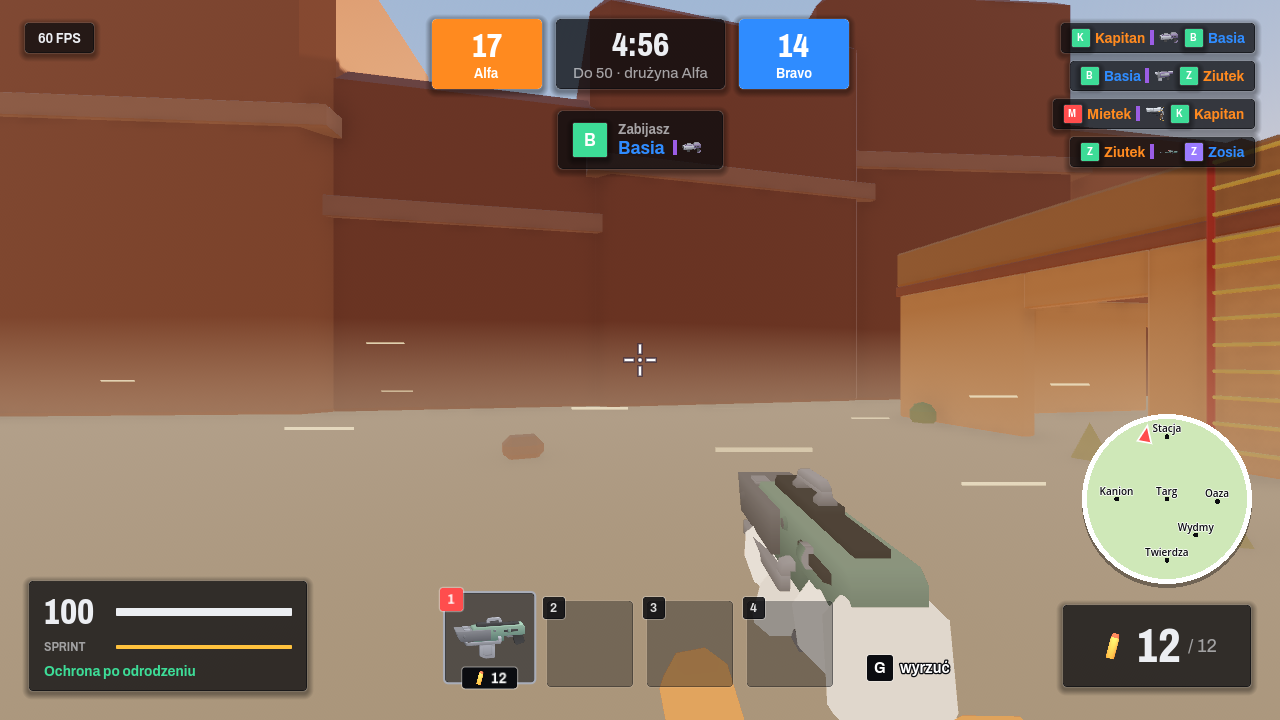
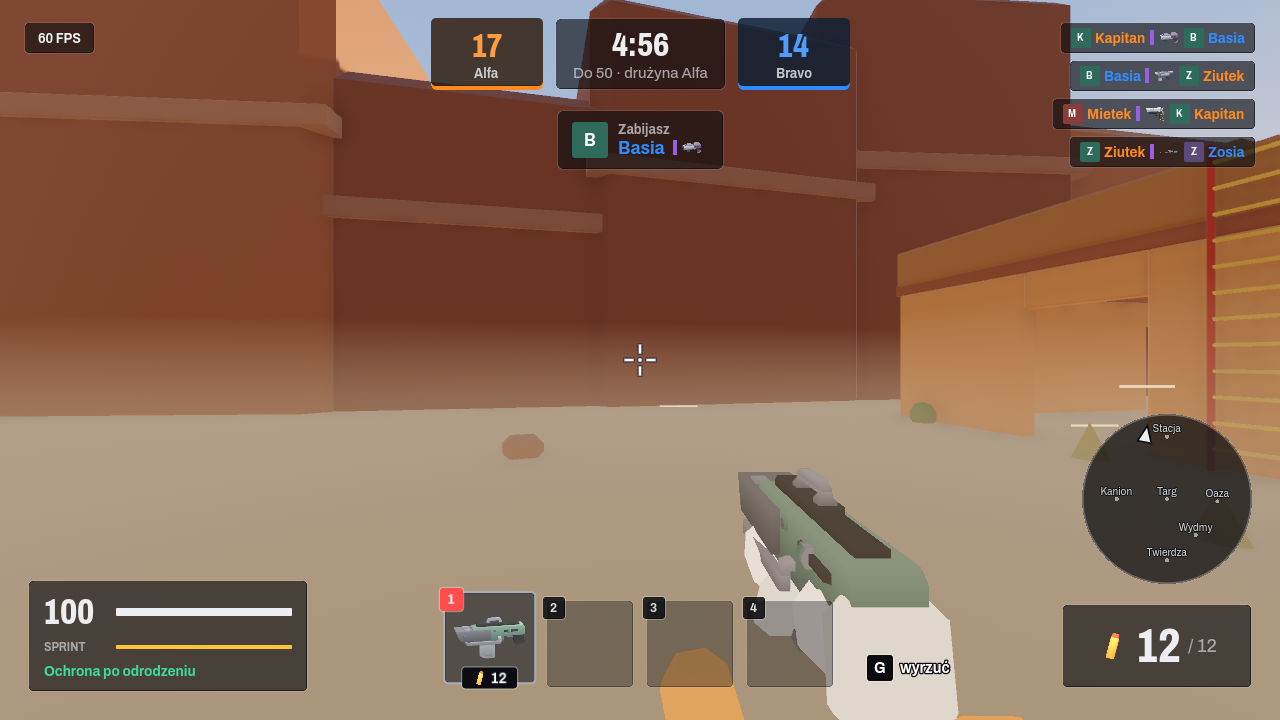
Flat HUD: accent stripes instead of colored boxes, no drop shadows
Colored cards with a soft shadow looked fake. Panels are now flat, and
a signal color (team, warning, streak, item rarity) no longer fills the
box: it becomes a dark translucent strip with a slight tint and a thick
edge in that color, as in current competitive shooters.

- UiStyle: no shadows; accent(), paint_accent() and paint_plain();
  sticker() turns saturated fills into accents automatically.
- Team score chips: dark with a team-colored bottom edge and team-
  colored numbers. Last 30 s: red digits and a red edge under the
  clock instead of a red box. Banner, streak, death card, item name
  and countdown use left-edge accents with light text.
- Minimap is a dark translucent radar with a thin rim (red tint
  outside the zone), light place names, white player arrow.
- Letter avatars are flat squares in muted colors.

diff --git a/docs/UI.md b/docs/UI.md
@@ -62,6 +62,8 @@ Odstępy biorą wartości ze skali **4, 8, 12, 16, 20, 24**.
 - `DEEP` (prawie czerń) to tło znaczków klawiszy (`UiStyle.chip_box`), przyciemnienie gry pod oknem i obrys napisów na obrazie gry. Nie używamy do tego `INK`, bo jest jasny.
 - Na jasnym albo kolorowym tle (żółta seria, wybrany wycinek koła tańców, wybrana zakładka) tekst jest ciemny (`DEEP`).
 - Główny przycisk i akcent marki: `CORAL`. Wybór i „to ty” w tabelach: `BLUE`. Najechanie, odliczanie i seria: `SUN`. Dobrze/gotowe/leczenie: `TEAL`. Pasek zdrowia jest jasny, a przy niskim zdrowiu `CORAL`.
+- **Bez cieni i bez kolorowych pudełek.** Panele są płaskie. Kolor sygnałowy (drużyna, ostrzeżenie, seria, klasa przedmiotu) nie wypełnia panelu, tylko daje ciemny półprzezroczysty pasek z lekkim odcieniem i grubszą krawędzią w tym kolorze (`UiStyle.accent`, a dla zmian w locie `paint_accent` i `paint_plain`). `UiStyle.sticker` z nasyconym kolorem robi to samo automatycznie. Tekst na takim pasku zostaje jasny, a kolor może dostać sama liczba (wynik drużyny, zegar w ostatnich 30 s). Pełnym kolorem zostają tylko małe elementy: próbka koloru drużyny, awatar, numer slotu.
+- Mapka to ciemny, półprzezroczysty radar z cienką obwódką. Poza strefą ma czerwony odcień.
 - Tekst na obrazku dostaje własne tło (znaczek), nigdy nie leży gołym tekstem na zdjęciu.
 
 ## 6. Układ na ekranie
